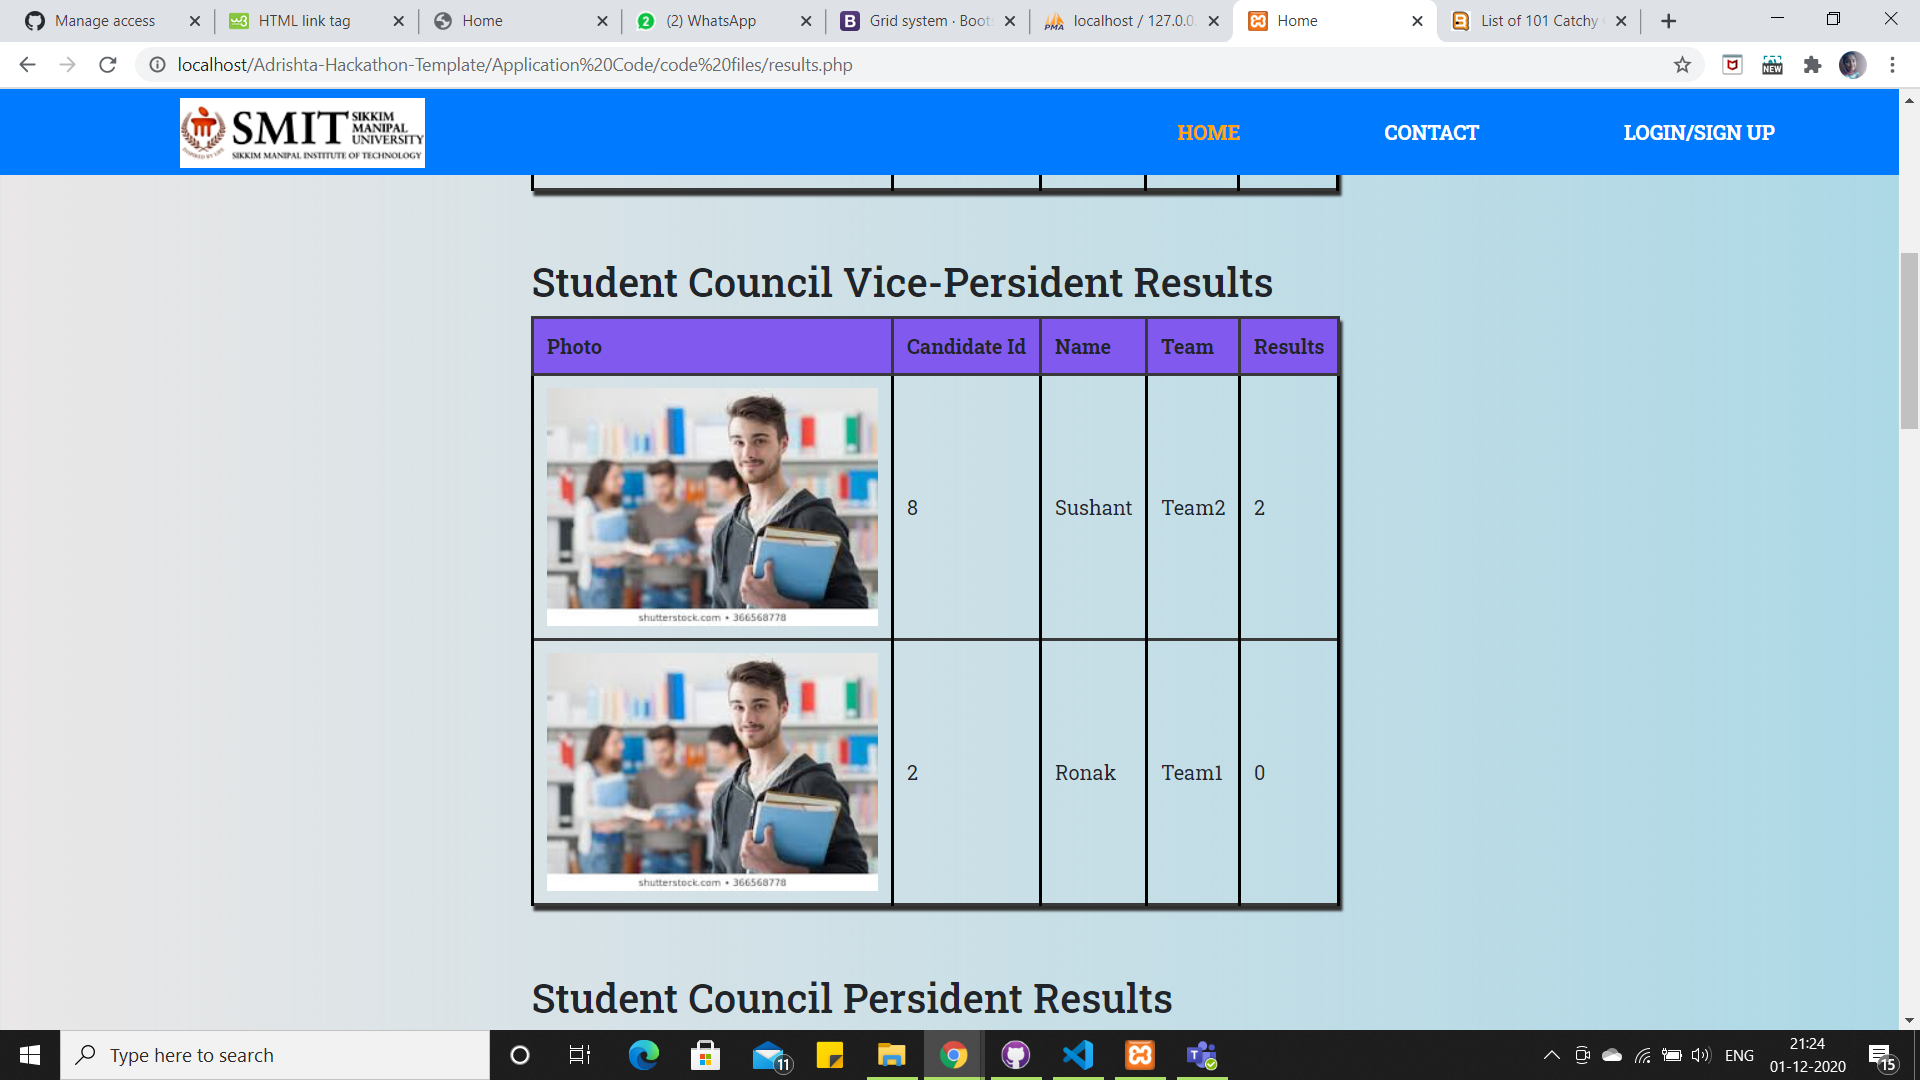
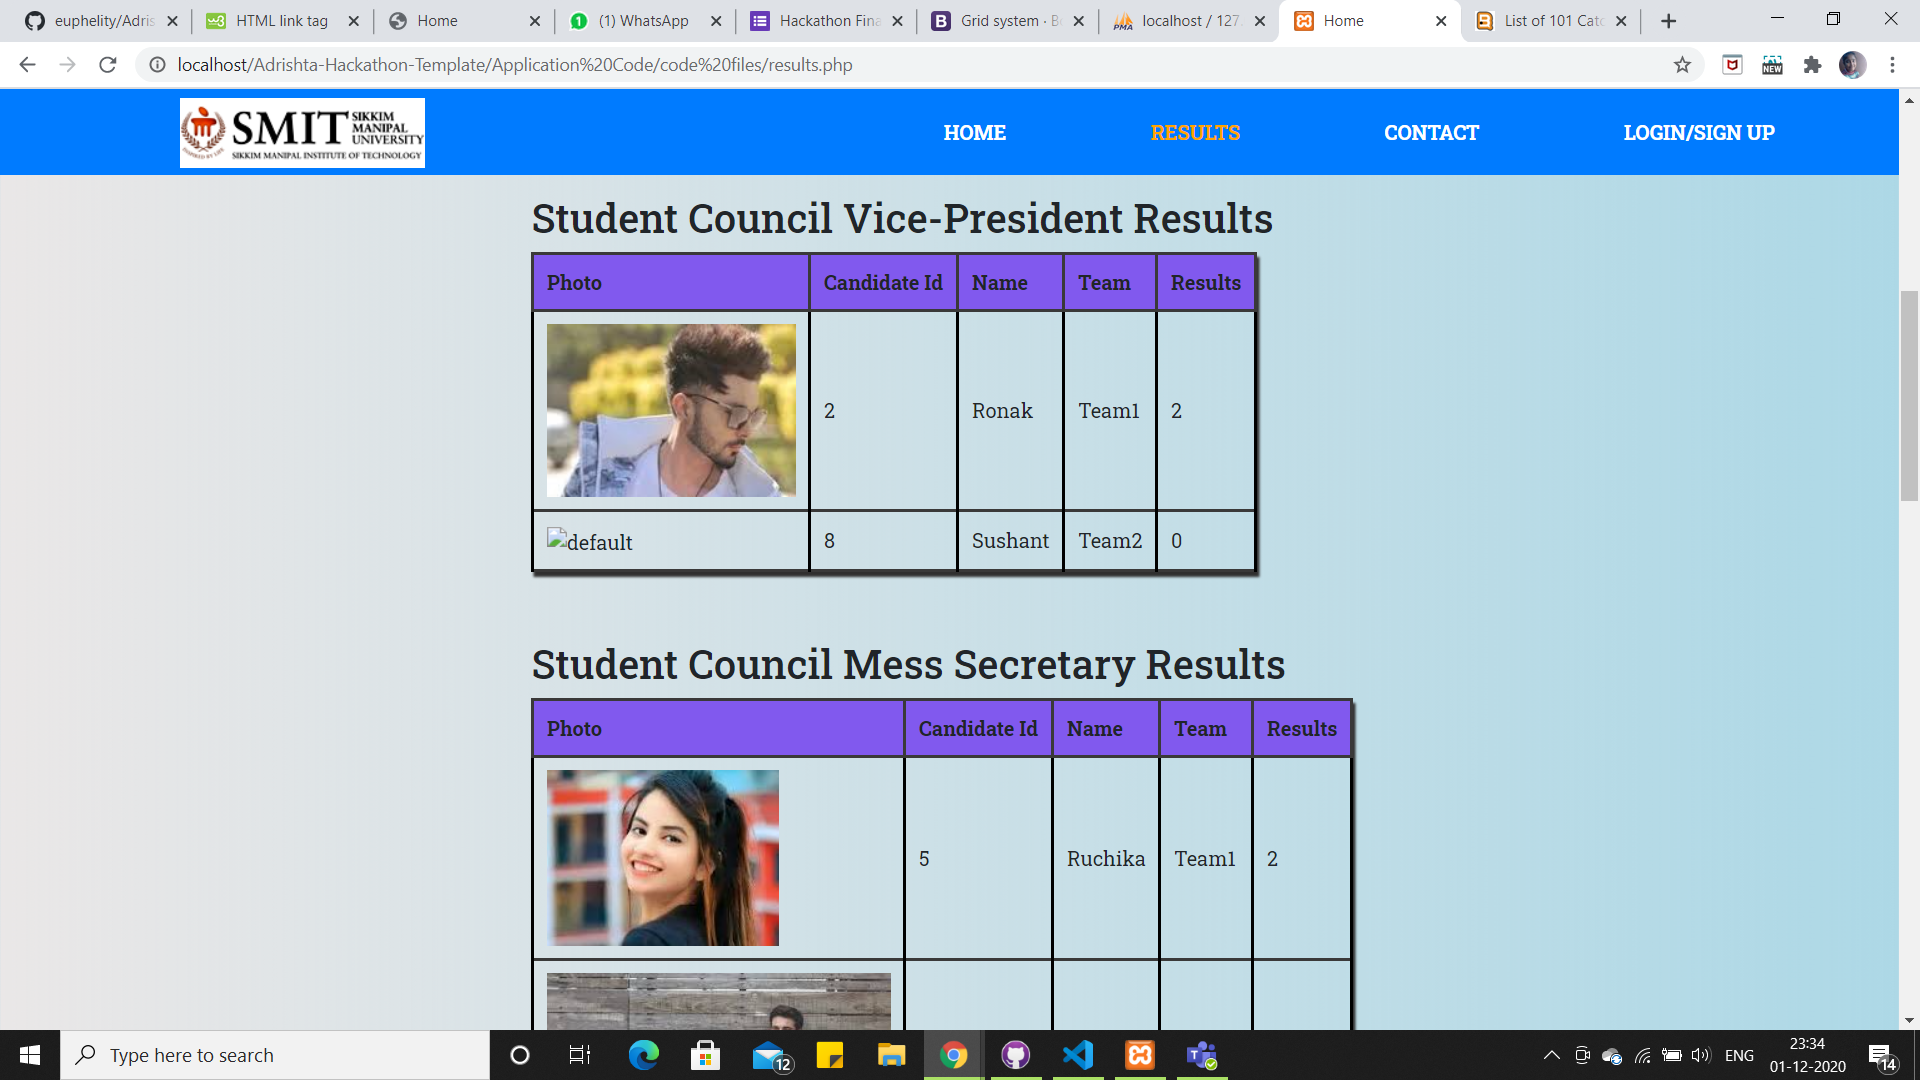
Final Changes

diff --git a/Application Code/code files/results.php b/Application Code/code files/results.php
@@ -1,5 +1,6 @@
 <?php
 session_start();
+$_SESSION["flag"]= 0;
 ?>
 <!DOCTYPE html>
 <html lang="en">
@@ -49,9 +50,18 @@ session_start();
       <div class="collapse navbar-collapse w-100" id="collapsibleNavbar">
         <ul class="navbar-nav ml-auto">
           <li class="nav-item">
-            <a class="active" href="#">HOME</a>
+            <?php
+            if($_SESSION["flag"]==0){
+              echo"<a href='home1.html'>HOME</a>";
+            }
+            else{
+              echo"<a href='home2.php'>HOME</a>";
+            }
+            ?>
           </li>
-
+          <li class="nav-item">
+            <a class='active' href="#">RESULTS</a>
+          </li>
           <li class="nav-item">
             <a href="#footer">CONTACT</a>
           </li>
@@ -80,7 +90,7 @@ session_start();
     if($election['status']=="Disabled"){
         
         echo "<!-- Candidate Detials -->
-        <h2>Student Council Persident Results</h2>
+        <h2>Student Council President Results</h2>
         <table border='1'>
         <tr>
         <th>Photo</th>
@@ -111,7 +121,7 @@ session_start();
         echo "</table><br>";
 
         echo "<!-- Candidate Detials -->
-        <h2>Student Council Vice-Persident Results</h2>
+        <h2>Student Council Vice-President Results</h2>
         <table border='1'>
         <tr>
         <th>Photo</th>
@@ -142,7 +152,7 @@ session_start();
         echo "</table><br>";
 
         echo "<!-- Candidate Detials -->
-        <h2>Student Council Persident Results</h2>
+        <h2>Student Council Mess Secretary Results</h2>
         <table border='1'>
         <tr>
         <th>Photo</th>

diff --git a/Application Code/code files/login.php b/Application Code/code files/login.php
@@ -81,6 +81,7 @@ if(isset($_POST['submit'])){
                 $row = mysqli_fetch_assoc($query);
                 $_SESSION["username"]=$row['username'];
                 $_SESSION["id"]=$row['id'];
+                $_SESSION["flag"]= 1;
                 ?>
                     <script>
                         alert("Login Successful");

diff --git a/Application Code/code files/voting_vp.php b/Application Code/code files/voting_vp.php
@@ -34,7 +34,7 @@ session_start();
     <?php 
     echo "<div class='container'>
     <div class='pt-3'>
-      <h1 class='text-center pb-4'>Vote For Student Council Vice Persident</h1>
+      <h1 class='text-center pb-4'>Vote For Student Council Vice President</h1>
     </div>
     ";
         include 'dbcon.php';

diff --git a/Application Code/code files/voting_p.php b/Application Code/code files/voting_p.php
@@ -33,7 +33,7 @@ session_start();
     <?php 
     echo "<div class='container'>
     <div class='pt-3'>
-      <h1 class='text-center pb-4'>Vote For Student Council Persident</h1>
+      <h1 class='text-center pb-4'>Vote For Student Council President</h1>
     </div>
     ";
         include 'dbcon.php';

diff --git a/Application Code/code files/dbcon.php b/Application Code/code files/dbcon.php
@@ -5,5 +5,4 @@ $password = "";
 $db = "voting";
 
 $con = mysqli_connect($server, $user, $password, $db);
-
 ?>
